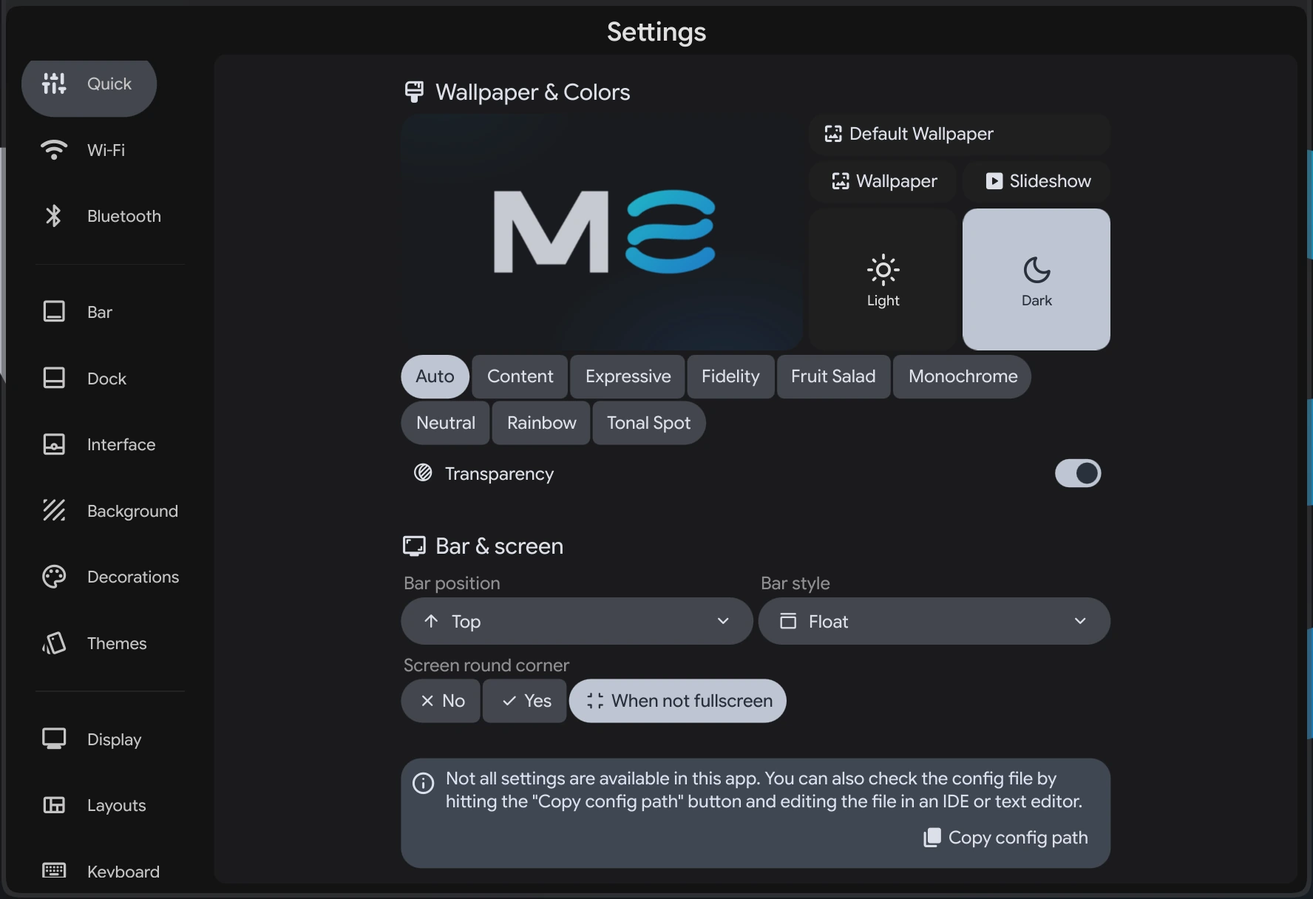
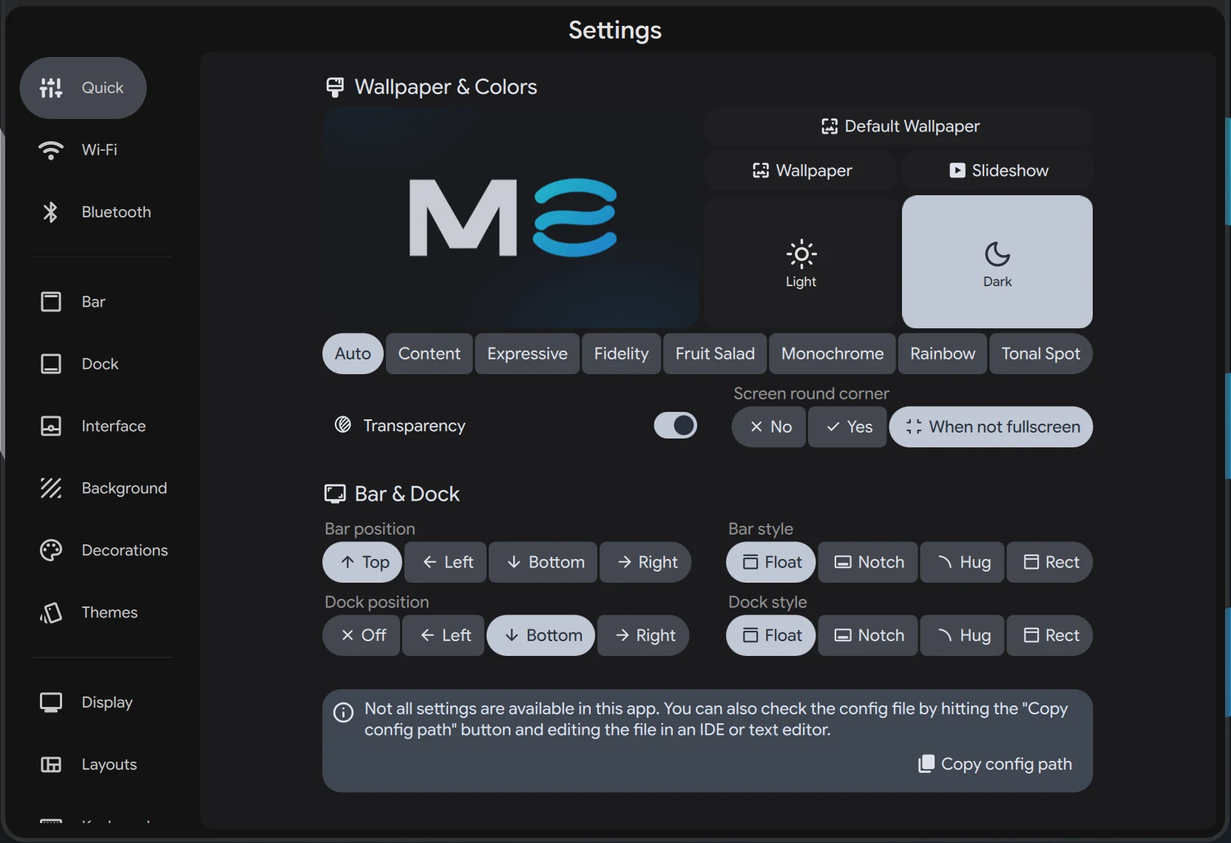
docs: Gaming and Sharing pages, and the rest of 3.0.0 across the docs
The Settings section gains reference pages for Gaming and Sharing, in the order the Settings app lists them, and the Quick page describes its new Bar and Dock rows. The Wi-Fi, Bar, Dock, Interface, Desktop, Decorations, Themes, Mouse, Accounts, Update, Sidebars, Launcher and Security pages cover what 3.0.0 adds or changes there. The Sharing screenshots have the computer name, address and user name blurred.

diff --git a/docs-pages.js b/docs-pages.js
@@ -44,6 +44,7 @@ const I = {
   dpad:    '<path d="M9 4h6v5h5v6h-5v5H9v-5H4V9h5V4Z"/>',
   lock:    '<rect x="4" y="11" width="16" height="9" rx="2"/><path d="M8 11V7a4 4 0 0 1 8 0v4"/>',
   sidebar: '<rect x="3" y="4" width="18" height="16" rx="2"/><path d="M15 4v16"/>',
+  folder:  '<path d="M3 7a2 2 0 0 1 2-2h4l2 2h8a2 2 0 0 1 2 2v8a2 2 0 0 1-2 2H5a2 2 0 0 1-2-2Z"/><circle cx="12" cy="13" r="2"/><path d="M8.5 17.5a3.5 3.5 0 0 1 7 0"/>',
   send:    '<path d="M22 2 11 13"/><path d="M22 2 15 22l-4-9-9-4Z"/>',
   tag:     '<path d="M3 12V4h8l9 9-8 8-9-9Z"/><circle cx="7.5" cy="7.5" r="1.25"/>',
 };
@@ -343,7 +344,7 @@ PAGES['install-iso'] = {
 // ---------- QUICK ----------
 PAGES.quick = {
   group: 'Settings', title: 'Quick', icon: 'quick',
-  lede: 'Quick is the first screen of Settings — the dial-in knobs you\'ll touch most often. Wallpaper, color scheme, bar position, and rounded corners, all in one place.',
+  lede: 'Quick is the first screen of Settings — the dial-in knobs you\'ll touch most often. Wallpaper, color scheme, where the bar and dock sit and how they look, and rounded corners, all in one place.',
   render: () => `
     <p class="shot-note">The whole page at once. Quick is the everyday entry point, and every control on it has a fuller counterpart deeper in Settings when you want to go further than the shortcut.</p>
     ${shot('QuickConfig.webp','Quick settings page')}
@@ -356,17 +357,19 @@ PAGES.quick = {
       <div class="prop"><center><div class="k">Wallpaper</div></center><div class="v">Pick any image or video. <code>Ctrl</code>+<code>SUPER</code> (the ⊞ Windows or ⌘ Command key)+<code>T</code> is the keyboard shortcut.</div></div>
       <div class="prop"><center><div class="k">Slideshow</div></center><div class="v">Point it at a folder instead of one picture and it moves through them on a timer. The palette follows along, so the whole desktop recolors with every change. Choosing a single wallpaper again ends it.</div></div>
       <div class="prop"><center><div class="k">Light / Dark</div></center><div class="v">Hard-switch between Mainstream's warm Day theme and the default Night. Pair with <a href="#interface">Auto theme</a> in Interface settings to follow sunrise/sunset.</div></div>
-      <div class="prop"><center><div class="k">Palette style</div></center><div class="v"><span class="tag">Auto</span> <span class="tag">Content</span> <span class="tag">Expressive</span> <span class="tag">Fidelity</span> <span class="tag">Fruit Salad</span> <span class="tag">Monochrome</span> <span class="tag">Neutral</span> <span class="tag">Rainbow</span> <span class="tag">Tonal Spot</span><br/>Different Material You tonal maps. Expressive pops color the most; Monochrome strips it entirely.</div></div>
+      <div class="prop"><center><div class="k">Palette style</div></center><div class="v"><span class="tag">Auto</span> <span class="tag">Content</span> <span class="tag">Expressive</span> <span class="tag">Fidelity</span> <span class="tag">Fruit Salad</span> <span class="tag">Monochrome</span> <span class="tag">Neutral</span> <span class="tag">Rainbow</span> <span class="tag">Tonal Spot</span><br/>Different Material You tonal maps. Expressive pops color the most; Monochrome strips it entirely. The style Auto would choose for your wallpaper is left out of the row, since picking Auto already gives you that one.</div></div>
       <div class="prop"><center><div class="k">Transparency</div></center><div class="v">Toggles translucent surfaces (sidebars, notifications, dock). Turn off if you\'re on a slower GPU or prefer flat surfaces.</div></div>
+      <div class="prop"><center><div class="k">Screen round corner</div></center><div class="v"><b>No</b> · <b>Yes</b> · <b>When not fullscreen</b><br/>Draws subtle rounded corners at the edges of your monitor. <b>When not fullscreen</b> removes them while a window is fullscreen.</div></div>
     </div>
 
-    <h2>Bar &amp; screen</h2>
-    <p>The quick path to moving the bar around. For every option (workspace indicators, utility buttons, weather, tray, clock format) jump to the full <a href="#bar">Bar</a> page.</p>
+    <h2>Bar &amp; Dock</h2>
+    <p>The quick path to placing and shaping the bar and dock. For every option (workspace indicators, utility buttons, weather, tray, clock format, pinned apps, hover effects) go to the full <a href="#bar">Bar</a> and <a href="#dock">Dock</a> pages.</p>
 
     <div class="props">
       <div class="prop"><center><div class="k">Bar position</div></center><div class="v"><b>Top</b> (default) · <b>Left</b> · <b>Bottom</b> · <b>Right</b></div></div>
-      <div class="prop"><center><div class="k">Bar style</div></center><div class="v"><span class="tag">Hug</span> touches the screen edges.&nbsp; <span class="tag">Float</span> (default) floats with a gap around it.&nbsp; <span class="tag">Rect</span> is a flat rectangle.&nbsp; <span class="tag">Notch</span> sits on the edge with a curve drawn where each end leaves it, so the bar reads as grown out of the screen edge rather than laid on top of it.</div></div>
-      <div class="prop"><center><div class="k">Screen round corner</div></center><div class="v">Draws subtle rounded corners at the edges of your monitor. <b>When not fullscreen</b> disables them automatically while a window is fullscreened.</div></div>
+      <div class="prop"><center><div class="k">Bar style</div></center><div class="v"><span class="tag">Float</span> (default) floats with a gap around it.&nbsp; <span class="tag">Notch</span> sits on the edge with a curve drawn where each end leaves it, so the bar reads as grown out of the screen edge rather than laid on top of it.&nbsp; <span class="tag">Hug</span> touches the screen edges.&nbsp; <span class="tag">Rect</span> is a flat rectangle.</div></div>
+      <div class="prop"><center><div class="k">Dock position</div></center><div class="v"><b>Off</b> · <b>Left</b> · <b>Bottom</b> (default) · <b>Right</b><br/><b>Off</b> hides the dock. The edge the bar is on is left out, since the two cannot share it.</div></div>
+      <div class="prop"><center><div class="k">Dock style</div></center><div class="v"><span class="tag">Float</span> (default) floats above the edge.&nbsp; <span class="tag">Notch</span> sits on the edge, grown out of it like the bar\'s Notch.&nbsp; <span class="tag">Hug</span> runs end to end along its edge.&nbsp; <span class="tag">Rect</span> is a flat rectangle.</div></div>
     </div>
 
   `
@@ -398,6 +401,9 @@ PAGES.wifi = {
 
     <h2>Hidden networks &amp; enterprise Wi-Fi</h2>
     <p>Scroll to the bottom of the list. <strong>Add hidden network</strong> lets you enter the SSID manually. <strong>Enterprise (802.1x)</strong> opens a form with identity, anonymous identity, CA cert, and inner auth — useful for university and corporate networks.</p>
+
+    <h2>Sharing a network</h2>
+    <p>To let a friend's phone or another computer join a network you have saved, click the share button beside <strong>Forget</strong> on that network in Settings. A QR code appears that the other device can scan with its camera, so nobody has to read out or type the password.</p>
   `
 };
 
@@ -452,6 +458,8 @@ PAGES.bar = {
     <p>Drop one widget against another to <strong>group them into a pill</strong> — a single rounded container holding both, which is how the clock and its neighbours are drawn by default. <strong>Group style</strong> switches between pills and plain spacing. <strong>Reset to default layout</strong> puts everything back.</p>
     ${callout('note','Vertical bars leave some widgets out', '<p>A few widgets only make sense across the top. The update indicator, for one, isn\'t offered when the bar is vertical.</p>')}
 
+    <p>Two widgets worth knowing about. <strong>Window title</strong> shows the focused window's title, and doubles as a workspace namer: right-click it to give the workspace you are on a name, which then shows there instead of window titles, and click it to jump between your named workspaces. <strong>Network speed</strong> shows live download and upload speeds; hover it for the connection, signal and IP address, and click it to open the Wi-Fi list. Both are off until you add them to the layout.</p>
+
     <h2>Time &amp; Date</h2>
     <div class="props">
       <div class="prop"><center><div class="k">Time Format</div></center><div class="v"><span class="tag">24h</span> 14:32 &nbsp; <span class="tag">12h am/pm</span> 2:32 pm &nbsp; <span class="tag">12h AM/PM</span> 2:32 PM (default)</div></div>
@@ -500,6 +508,7 @@ PAGES.bar = {
     <h2>Workspaces</h2>
     <div class="props">
       <div class="prop"><center><div class="k">Always show numbers</div></center><div class="v">Off by default — only shows the number for the focused workspace. Turn on if you jump between workspaces by number a lot.</div></div>
+      <div class="prop"><center><div class="k">Roman / Han chars</div></center><div class="v">Number your workspaces in Roman numerals (I, II, III) or Han characters instead of the usual digits.</div></div>
       <div class="prop"><center><div class="k">Show app icons</div></center><div class="v">Draws the icon of whatever app is on each workspace. Quick visual map.</div></div>
       <div class="prop"><center><div class="k">Tint app icons</div></center><div class="v">Tints the icons with your Material You accent for a unified look.</div></div>
       <div class="prop"><center><div class="k">Large circular app icons</div></center><div class="v">Draws each workspace&rsquo;s app icon larger and in a circle rather than small and square. Off by default.</div></div>
@@ -518,6 +527,12 @@ PAGES.bar = {
       <li><b>Performance Profile toggle</b> — cycles Performance / Balanced / Power Saver.</li>
       <li><b>Record</b> — starts a screen recording, with visible recording indicator.</li>
     </ul>
+
+    <h2>Notifications &amp; tooltips</h2>
+    <div class="props">
+      <div class="prop"><center><div class="k">Unread indicator: show count</div></center><div class="v">Shows how many notifications are waiting on the Bar's notification indicator, rather than just that some are.</div></div>
+      <div class="prop"><center><div class="k">Tooltips</div></center><div class="v">Choose whether Bar tooltips appear as the pointer passes over, or wait for a click.</div></div>
+    </div>
 
     <h2>Weather</h2>
     <p>Powered by Open-Meteo. When <strong>Enable GPS based location</strong> is on, Mainstream uses GeoClue and the <em>City name</em> field greys out, since your position is coming from the machine rather than from what you typed. Turn it off to name a city yourself. <strong>Polling interval</strong> is how often (in minutes) the widget refreshes.</p>
@@ -547,9 +562,9 @@ PAGES.dock = {
     <h2>Behavior</h2>
     <div class="props">
       <div class="prop"><center><div class="k">Position</div></center><div class="v">Which edge the dock sits on: <span class="tag">Bottom</span> the default &nbsp; <span class="tag">Top</span> &nbsp; <span class="tag">Left</span> &nbsp; <span class="tag">Right</span> &nbsp; <span class="tag">Disabled</span> turns the dock off. On the left or right it stands vertically, icons stacked. Pick the edge your bar is already using and the bar moves to the opposite one, so the two never share a side.</div></div>
-      <div class="prop"><center><div class="k">Window indicators</div></center><div class="v">The mark under an icon that says the app is running, and how many windows it has. <span class="tag">Dashes</span> the default &nbsp; <span class="tag">Dots</span> &nbsp; <span class="tag">Count badge</span> a number instead of marks, which stays readable past three or four windows &nbsp; <span class="tag">None</span></div></div>
+      <div class="prop"><center><div class="k">Window indicators</div></center><div class="v">The mark under an icon that says the app is running, and how many windows it has. <span class="tag">Dashes</span> the default &nbsp; <span class="tag">Dots</span> &nbsp; <span class="tag">Count badge</span> a number instead of marks, which stays readable past three or four windows &nbsp; <span class="tag">None</span> &nbsp; <span class="tag">Dashes and badges</span> <span class="tag">Dots and badges</span> the marks and the count together</div></div>
       <div class="prop"><center><div class="k">Launch animation</div></center><div class="v">The icon reacts when you start an app, so you can see the click landed before the window appears. <span class="tag">Bounce</span> the default &nbsp; <span class="tag">Pulse</span> &nbsp; <span class="tag">Pop</span> &nbsp; <span class="tag">Wobble</span> &nbsp; <span class="tag">None</span> Only a genuine launch animates: clicking an app that is already open, or opening a folder, does not.</div></div>
-      <div class="prop"><center><div class="k">Hover animation</div></center><div class="v">What an icon does as the pointer passes over it. <span class="tag">Magnify</span> the icon grows, in the manner of a classic dock &nbsp; <span class="tag">Glow</span> a lit halo instead of a size change &nbsp; <span class="tag">None</span></div></div>
+      <div class="prop"><center><div class="k">Hover animation</div></center><div class="v">What an icon does as the pointer passes over it. <span class="tag">Magnify</span> the icon grows, in the manner of a classic dock &nbsp; <span class="tag">Glow</span> a lit halo instead of a size change &nbsp; <span class="tag">None</span> New installs start on Glow, and Magnify starts at a gentler strength when you pick it.</div></div>
       <div class="prop"><center><div class="k">Magnify amount</div></center><div class="v">How far the hovered icon grows. The mark on the track is the stock setting, so you can always find your way back to it.</div></div>
       <div class="prop"><center><div class="k">Glow intensity</div></center><div class="v">How strong the halo is. Appears in place of the magnify slider when Glow is the chosen hover animation.</div></div>
       <div class="prop"><center><div class="k">Hover to reveal</div></center><div class="v">The dock stays hidden while a window is focused and slides in when your cursor touches the edge it sits on. Off: it only appears on an empty workspace, not on hover.</div></div>
@@ -568,7 +583,7 @@ PAGES.dock = {
 
     <h2>Shape</h2>
     <div class="props">
-      <div class="prop"><center><div class="k">Corner style</div></center><div class="v"><span class="tag">Float</span> the dock floats clear of the edge with a margin around it, the default &nbsp; <span class="tag">Rect</span> a plain rectangle with no rounding &nbsp; <span class="tag">Notch</span> sits against the edge and curves away from it, so the screen edge appears to fold around the dock.</div></div>
+      <div class="prop"><center><div class="k">Corner style</div></center><div class="v"><span class="tag">Float</span> the dock floats clear of the edge with a margin around it, the default &nbsp; <span class="tag">Rect</span> a plain rectangle with no rounding &nbsp; <span class="tag">Notch</span> sits against the edge and curves away from it, so the screen edge appears to fold around the dock. &nbsp; <span class="tag">Hug</span> runs the whole length of the edge facing the Bar, like a taskbar, with smaller icons to match. Each style remembers its own roundness, so shaping one leaves the others as they were.</div></div>
       <div class="prop"><center><div class="k">Icon size</div></center><div class="v">How large the app icons are, and with them the dock itself.</div></div>
       <div class="prop"><center><div class="k">Corner roundness</div></center><div class="v">How rounded the dock\'s own corners are, from square to fully pill-shaped.</div></div>
     </div>
@@ -608,6 +623,7 @@ PAGES.interface = {
       <div class="prop"><center><div class="k">Layout</div></center><div class="v">Lay the workspace previews out <b>Vertical</b> or <b>Horizontal</b>.</div></div>
       <div class="prop"><center><div class="k">Workspace gap</div></center><div class="v">Pixels between workspace previews. Default 100.</div></div>
       <div class="prop"><center><div class="k">Workspace scale</div></center><div class="v">How much each preview shrinks — lower fits more workspaces on screen. Default 50%.</div></div>
+      <div class="prop"><center><div class="k">Each monitor / Match the others</div></center><div class="v">With more than one monitor, give one its own Scrolling Overview layout, workspace gap and scale, or set it to match the others again.</div></div>
     </div>
 
     <h2>Launcher Overview</h2>
@@ -649,6 +665,12 @@ PAGES.interface = {
       <div class="prop"><center><div class="k">Also unlock keyring</div></center><div class="v">Unlocking the screen also unlocks GNOME Keyring — no second password for Wi-Fi, Git creds, etc.</div></div>
       <div class="prop"><center><div class="k">Use varying shapes for password characters</div></center><div class="v">Each password dot becomes a different subtle shape. Purely cosmetic.</div></div>
       <div class="prop"><center><div class="k">Enable blur (Blurred style)</div></center><div class="v">Kawase blur behind the unlock prompt.</div></div>
+    </div>
+
+    <h2>Notifications</h2>
+    <div class="props">
+      <div class="prop"><center><div class="k">Position</div></center><div class="v">Where notification popups appear: any corner of the screen, or centered at the top or bottom.</div></div>
+      <div class="prop"><center><div class="k">How long they stay</div></center><div class="v">How long a popup stays on screen before it tucks itself away into the notification list.</div></div>
     </div>
 
     <h2>On-screen display</h2>
@@ -793,7 +815,7 @@ PAGES.decorations = {
       <div class="prop"><center><div class="k">Blur</div></center><div class="v">Background blur behind transparent windows and panels. The most expensive thing on this page to draw.</div></div>
       <div class="prop"><center><div class="k">Shadows</div></center><div class="v">Drop shadows underneath windows.</div></div>
       <div class="prop"><center><div class="k">Borders</div></center><div class="v">Colored borders around active and inactive windows — useful for telling floating windows apart.</div></div>
-      <div class="prop"><center><div class="k">Rounded Corners</div></center><div class="v">Rounded corners on windows and the bar, following your theme radius.</div></div>
+      <div class="prop"><center><div class="k">Rounded Corners</div></center><div class="v">Rounded corners on windows and the bar, following your theme radius. Turning it off squares the screen corners and the Hug dock too, and turning it back on restores them all as they were.</div></div>
       <div class="prop"><center><div class="k">Title Bars</div></center><div class="v">Show title bars on windows, so every window keeps its close and maximize buttons. Turning this on reveals a <b>Title bars</b> section below, for coloring them.</div></div>
     </div>
     ${callout('note','A switch turns the section off', '<p>Each switch gates the matching section further down. With <strong>Blur</strong> off, the blur sliders stop having an effect — they keep their values for when you turn it back on.</p>')}
@@ -803,6 +825,11 @@ PAGES.decorations = {
     <div class="props">
       <div class="prop"><center><div class="k">Color</div></center><div class="v">Paints the title bar. Left empty, the title bar keeps the color it comes with, which is the one the plugin picks for itself. Applies as you edit.</div></div>
       <div class="prop"><center><div class="k">Opacity</div></center><div class="v">How see-through the title bar is. It takes effect once a color is set: the opacity is folded into the color the plugin is handed, so on its own, with no color, there is nothing to make transparent.</div></div>
+      <div class="prop"><center><div class="k">Dark and light</div></center><div class="v">Dark mode and light mode each keep their own title bar color and opacity, and light mode starts with a light title bar.</div></div>
+      <div class="prop"><center><div class="k">Window buttons</div></center><div class="v">The close, maximize and minimize buttons. Switching them off also hides their options; double-click, middle-click and scrolling on the title bar keep working.</div></div>
+      <div class="prop"><center><div class="k">Show buttons only on hover</div></center><div class="v">The buttons appear when the pointer is over the title bar.</div></div>
+      <div class="prop"><center><div class="k">Button size, background, icon color, highlight</div></center><div class="v">Resize the buttons and give them their own background, icon color and the circle that lights up behind one under the pointer. Left empty, a color follows the look they come with.</div></div>
+      <div class="prop"><center><div class="k">Scroll to maximize and minimize</div></center><div class="v">Scroll up on a title bar to maximize its window, and down to restore it, then minimize it. Double-click maximizes or restores, and middle-click closes, whatever this is set to.</div></div>
     </div>
 
     <h2>Window shape</h2>
@@ -925,7 +952,7 @@ PAGES.themes = {
     <div class="props">
       <div class="prop"><center><div class="k">Wallpaper</div></center><div class="v">The image file itself is copied into the theme, so the theme keeps working even if you later move or delete the original.</div></div>
       <div class="prop"><center><div class="k">Colors</div></center><div class="v">Your <strong>Material You palette style</strong> (Expressive, Monochrome, …) and <strong>Light/Dark</strong> choice. On apply, the palette is regenerated from the theme\'s wallpaper — and it reaches further than the desktop: your apps follow the light/dark switch and the terminal recolors too.</div></div>
-      <div class="prop"><center><div class="k">Every Settings option</div></center><div class="v">The desktop configuration as it stood when you saved: <strong>bar</strong> position, style, and modules; the <strong>dock</strong>&rsquo;s size, marks and end buttons; <strong>background widgets</strong> (clock, weather, quote); <strong>fonts</strong> and sizes; <strong>transparency</strong>; interface and launcher tweaks.</div></div>
+      <div class="prop"><center><div class="k">Every Settings option</div></center><div class="v">Every Settings option that shapes the look. Your own settings stay yours: language, search engine, AI settings, lock screen security, battery settings, pinned apps, time format, touchpad gestures and save folders are never saved into a theme, and never change when you apply or import one.</div></div>
       <div class="prop"><center><div class="k">Window decorations</div></center><div class="v">Animations, blur, shadows, borders and gaps, rounded corners, and title bars — applied live, so windows re-dress the moment you switch.</div></div>
       <div class="prop"><center><div class="k">System look</div></center><div class="v">Your app style, icon set, and mouse pointer, so your other programs change with the desktop instead of staying behind. Set these on the <a href="#decorations">Decorations</a> page.</div></div>
       <div class="prop"><center><div class="k">Preview</div></center><div class="v">A screenshot taken at save time becomes the theme\'s thumbnail in the grid.</div></div>
@@ -953,6 +980,8 @@ PAGES.themes = {
       </div>
       <figcaption>Switching live: one click and the wallpaper, colors, bar, dock, and widgets all follow in a single motion.</figcaption>
     </figure>
+
+    <p><code>Ctrl</code>+<code>SUPER</code>+<code>N</code> moves to your next saved theme from anywhere on the desktop.</p>
 
     <h2>Day/Night Themes</h2>
     ${shot('ThemesConfig-DayNight.webp','Day/Night Themes section of the Themes page','Pair two saved themes to time of day — a bright one for daytime, a dark one for night — and Mainstream switches between them on its own.')}
@@ -1146,6 +1175,8 @@ PAGES.mouse = {
     <h2>Touchpad</h2>
     <div class="props">
       <div class="prop"><center><div class="k">Touchpad</div></center><div class="v">Turns the touchpad itself on or off. <b>Enabled</b> by default. The row only appears when a touchpad is actually detected, so a desktop never sees it. The change applies at once and is written to your Hyprland config, so it survives a restart.</div></div>
+      <div class="prop"><center><div class="k">Disable While Typing</div></center><div class="v">Ignores the touchpad for a moment after each key press, so a resting palm cannot move the pointer.</div></div>
+      <div class="prop"><center><div class="k">Disable While Using an External Mouse</div></center><div class="v">Turns the touchpad off once a USB or Bluetooth mouse is used, and back on when the mouse is disconnected.</div></div>
     </div>
 
     <p><strong>Scroll Direction</strong> works exactly like the mouse setting but is stored separately — touchpads default to <strong>Natural</strong> scrolling (the phone and tablet feel) while mice default to <strong>Traditional</strong>, and you can override either.</p>
@@ -1221,6 +1252,33 @@ PAGES.power = {
   `
 };
 
+// ---------- GAMING (SETTINGS) ----------
+PAGES['gaming-settings'] = {
+  group: 'Settings', title: 'Gaming', icon: 'game',
+  lede: 'Three switches for smoother play. One keeps games smooth while something heavy runs in the background, and two kernel options can help particular games stutter less or load faster.',
+  render: () => `
+    ${shot('GamingConfig.webp','Gaming settings page')}
+
+    <p>Everything on this page is off by default, and anything you turn on can be turned back off from here. The switches need the gaming stack, which the Welcome app installs, and the page tells you when it is missing. For what each switch changes under the hood, what it costs, and the popular tweaks Mainstream leaves out on purpose, see <a href="#gaming-performance">Gaming Performance</a>.</p>
+
+    <h2>Responsiveness</h2>
+    <div class="props">
+      <div class="prop"><center><div class="k">Keep games smooth under load</div></center><div class="v">Switches to a scheduler that favors responsiveness over raw throughput, so a game stays smooth while something heavy runs behind it, like a compile, a video export or a big download being unpacked. Those long jobs finish a little slower in exchange. Takes effect right away, with no restart. If your kernel cannot run it, the switch says so and the standard scheduler stays in charge.</div></div>
+    </div>
+
+    <h2>Kernel options</h2>
+    <p>Neither of these helps every game. They are for the one game that is still stuttering or loading slowly after everything else.</p>
+    <div class="props">
+      <div class="prop"><center><div class="k">Skip split lock detection</div></center><div class="v">Removes a stutter some older games show on Intel processors. It also removes a protection that stops one program from stalling the whole machine, so leave it off unless a game needs it.</div></div>
+      <div class="prop"><center><div class="k">Always use huge memory pages</div></center><div class="v">Some games load faster and run smoother with it. Others gain nothing and use more memory. Off, the default, hands huge pages out only where a program asks for them.</div></div>
+    </div>
+    <p>Both are boot options, so changing one rebuilds the boot image and applies after a restart. They are available when Mainstream manages the boot menu, which is the case on every install from the Mainstream ISO.</p>
+
+    ${callout('tip','Test one at a time','<p>Turn one option on, restart, and play the game that was giving you trouble. If nothing changed, turn it back off. Leaving an option on that did not help only keeps its cost.</p>')}
+    ${callout('note','Asks for your password','<p>Each change here asks for an administrator password, because it changes how the whole system runs. If the boot image cannot be rebuilt, the change is undone rather than left half applied.</p>')}
+  `
+};
+
 // ---------- ACCOUNTS ----------
 PAGES.accounts = {
   group: 'Settings', title: 'Accounts', icon: 'user',
@@ -1237,17 +1295,19 @@ PAGES.accounts = {
       <div class="prop"><center><div class="k">Change Password</div></center><div class="v">Sets a new login password. Requires your <em>current</em> password for confirmation.</div></div>
       <div class="prop"><center><div class="k">Change Login Name</div></center><div class="v">Renames the user on disk. The home directory is moved, so the system briefly locks out open sessions for that user.</div></div>
       <div class="prop"><center><div class="k">Change Login Image</div></center><div class="v">The picture shown on the greeter. Square images 256 px and up work well.</div></div>
+      <div class="prop"><center><div class="k">Repair Account</div></center><div class="v">For an account that is missing its setup. Fills in what is missing and leaves the person's own choices, like their default apps and shell, as they are.</div></div>
+      <div class="prop"><center><div class="k">Administrator</div></center><div class="v">Choose who can administer the computer: install software, change system settings and manage accounts. The last administrator cannot be made standard.</div></div>
       <div class="prop"><center><div class="k">Remove Account</div></center><div class="v">Deletes the user. You\'re asked separately whether to keep or delete the home directory.</div></div>
     </div>
 
     <h2>Add an Account</h2>
     <ol>
-      <li>Enter a <strong>Login name</strong> — lowercase, no spaces.</li>
+      <li>Enter a <strong>Login name</strong> (lowercase, no spaces) and, if you like, a full name.</li>
       <li>Set a password.</li>
-      <li>Choose whether to <strong>set up a personal folder</strong> (<code>/home/&lt;name&gt;</code>) for the new account.</li>
-      <li>Optionally <strong>copy your app settings</strong> so the new account starts with your <code>~/.config</code> as a base.</li>
+      <li>Turn on <strong>Let this person administer the computer</strong> only for someone who should manage it with you.</li>
       <li>Hit <strong>Create Account</strong>.</li>
     </ol>
+    <p>A new account gets the same desktop a fresh install gives you, and finishes setting itself up the first time that person signs in.</p>
 
     ${callout('tip','Protected by a password prompt', '<p>Creating, renaming, or deleting an account — or changing a password — asks for an administrator\'s password before it happens. Anyone can browse the list; only an admin can change it.</p>')}
   `
@@ -1298,6 +1358,44 @@ PAGES.services = {
       <div class="prop"><center><div class="k">City name</div></center><div class="v">The place to show weather for when GPS based location is off.</div></div>
       <div class="prop"><center><div class="k">Polling interval (m)</div></center><div class="v">How often the forecast refreshes, in minutes.</div></div>
     </div>
+  `
+};
+
+// ---------- SHARING (SETTINGS) ----------
+PAGES['sharing-settings'] = {
+  group: 'Settings', title: 'Sharing', icon: 'folder',
+  lede: 'Share folders with Windows, Mac and Linux computers on your home network. Turn it on once, pick the folders, and other computers sign in with a sharing password this page shows you.',
+  render: () => `
+    ${shot('SharingConfig-1.webp','Sharing settings page, top half','Turn sharing on, then use the addresses and sign-in details under How to Connect on the other computer.')}
+
+    <h2>Turning it on</h2>
+    <p>Flip <strong>Share folders with other computers</strong>. The first time, Mainstream downloads the sharing service (about 9 MB) and asks for your password once. Sharing then opens on the network you are connected to right now, and on no other.</p>
+    <p>The switch is for the whole computer. Each person who wants to share their own folders sets up their account once from this page, which gives them a sharing password of their own.</p>
+
+    <h2>How to Connect</h2>
+    <p>On the other computer, type one of the addresses this page shows, then sign in with the user name and password below them.</p>
+    <div class="props">
+      <div class="prop"><center><div class="k">For Windows</div></center><div class="v">Type it into the File Explorer address bar.</div></div>
+      <div class="prop"><center><div class="k">For Mac and Linux</div></center><div class="v">On a Mac, in Finder under <strong>Go</strong> &gt; <strong>Connect to Server</strong>. On Linux, in the file manager after pressing <code>Ctrl</code> + <code>L</code>.</div></div>
+      <div class="prop"><center><div class="k">By number</div></center><div class="v">The same addresses using this computer\'s network number. Use these if the name does not work. The number can change when your router restarts.</div></div>
+      <div class="prop"><center><div class="k">User name and Password</div></center><div class="v">What the other computer asks for. The sharing password is not your login password. <strong>Show</strong> reveals it, and <strong>Change</strong> sets a new one (8 to 128 characters) or lets <strong>Suggest One</strong> pick it for you. Computers that saved the old password will ask again.</div></div>
+    </div>
+    <p>This computer also shows up on its own under Network in File Explorer on Windows, in the Finder sidebar on a Mac, and under Network in Files on Linux.</p>
+
+    ${shot('SharingConfig-2.webp','Sharing settings page, bottom half','Pick the folders and what others can do with them, choose the networks to share on, and give the computer a name that is easy to type.')}
+
+    <h2>Shared Folders</h2>
+    <p><strong>Add a Folder</strong> shares any folder that belongs to you, and <strong>Share Your Public Folder</strong> is a one-click start. Each folder can be <span class="tag">View only</span> or <span class="tag">Can make changes</span>. The <strong>&times;</strong> stops sharing it; the folder and its files stay where they are.</p>
+    <p>You can also share from Files: right-click a folder and choose <strong>Share on Network</strong>. To send a single file to a phone or tablet instead, see <a href="#sharing">Sending files</a>.</p>
+
+    <h2>Networks</h2>
+    <p>Your folders are only shared on the networks turned on here. Anywhere else, like a coffee shop or a hotel, they stay closed. A cable connection uses one setting wherever you plug in, so on a laptop that leaves the house, leave it off and share over your home Wi-Fi instead.</p>
+
+    <h2>Computer Name</h2>
+    <p>The name other computers find this one by. A short one is easier to type. Use lowercase letters, numbers and dashes, up to 63 characters. Computers that saved the old name will need the new address.</p>
+
+    ${callout('note','Your sharing password stays in your keyring','<p>The password is kept in your keyring rather than in a file. If the keyring is locked, the page asks you to unlock it before it can show the password.</p>')}
+    ${callout('warn','Keep the firewall on','<p>The firewall is what keeps your folders closed on networks you have not turned on. If it is switched off while sharing runs, the page warns you, because your folders could then be reached from any network this computer is on.</p>')}
   `
 };
 
@@ -1368,6 +1466,10 @@ PAGES.update = {
 
 <span class="c"># Or just the desktop refresh, skipping the package steps</span>
 updatems --edge</code></pre>
+
+    <h2>Leave it running</h2>
+    <p>An update keeps going if you close Settings, and the result is waiting when you open the Update page again. Before you start, the page tells you whether the update will need a restart, and when it does, it ends with a <strong>Reboot Now</strong> button. Turn on <strong>Sound when done</strong> in the advanced options to hear a chime when it finishes, or a warning sound if something went wrong.</p>
+    <p>Updates keep what you changed: the Decorations settings you adjusted, the layouts picked on the Layouts page, the touchpad gestures on the Mouse page, and your own edits to settings files a release did not touch. Settings you never changed still take each release's new defaults.</p>
 
     <h2>If something breaks</h2>
     <p>Don\'t panic. You have a snapshot. Head over to <a href="#recovery">Recovery</a> to walk through rolling back from the Limine boot screen.</p>
@@ -1582,6 +1684,15 @@ PAGES.security = {
     <p>Mainstream never builds software recipes on your machine and never installs from an unvetted source. Everything comes from four signed repositories: Arch\'s own <code>core</code>, <code>extra</code>, and <code>multilib</code>, plus <strong>[mainstream]</strong> — our own curated, prebuilt repository that stands in for the AUR. No <code>yay</code>, no <code>paru</code>, no compiling at install time.</p>
 
     ${callout('note','Still full Arch underneath', '<p>Nothing here is locked down. Experienced users can opt into the AUR at any time (see the bottom of this page) — it just isn\'t the default, because the AUR\'s safety model asks more of you than a newcomer can reasonably give.</p>')}
+
+    <h2>Older installs get the same protections</h2>
+    <p>Security fixes are not only for new installs. Updating also cleans up what older installs carried from the installer:</p>
+    <ul>
+      <li><strong>Encrypted disks:</strong> the boot files, which are not encrypted, no longer hold an unused key to your disk. New installs never add it, and updating removes it wherever that is safe.</li>
+      <li><strong>SSH:</strong> installs from before July no longer let root sign in over SSH with a password if SSH is ever turned on.</li>
+      <li><strong>sudo:</strong> older installs lose the installer's rule that let administrators use sudo without a password, as long as a normal rule that asks for one is in place.</li>
+      <li><strong>Accounts:</strong> an administrator's password typed into a standard account's session is asked for again every time, rather than staying good there for a few minutes.</li>
+    </ul>
 
     <h2>Why the AUR isn\'t enabled by default</h2>
     <p>The AUR is one of the best things about Arch. It carries tens of thousands of packages, keeps pace with upstream faster than almost anywhere else, and every recipe is a plain-text <code>PKGBUILD</code> you can read end to end. We use it — to <em>build</em> things, once, on our side. What we don\'t do is point your machine at it.</p>
@@ -2003,6 +2114,8 @@ PAGES.desktop = {
     <p>Right click any empty part of the desktop and a menu opens on the wallpaper. It leads with the wallpaper itself, so changing your background is one click from where you already are, and carries on into the theme, the bar and the dock without opening Settings first.</p>
     <p>The widgets that sit on the wallpaper, the clock and the ten beside it, are set up in <a href="#background">Settings &rarr; Background</a>.</p>
 
+    <p>With more than one monitor, each can have its own wallpaper: right-click the desktop on the screen you want to change and choose <strong>Change Wallpaper</strong> to set that screen alone. Colors still come from the main wallpaper, and <strong>Use Main Wallpaper</strong> puts the screen back to it.</p>
+
     <h2>Title bars, your call</h2>
     <p>Tiling purists keep windows clean; everyone else can flip on familiar title bars with a close button. It\'s one toggle in <strong>Settings → Interface → Decorations</strong>, and it applies to every window instantly — no logout, no reload.</p>
     <figure>
@@ -2143,6 +2256,8 @@ PAGES['overview-launcher'] = {
       <figcaption>Open single apps or whole folders of apps at once, and rearrange your open apps across your workspaces.</figcaption>
     </figure>
 
+    <p>The launcher matches your Dock: the search panel, the dim behind it and the app list take the Dock's color and transparency, and the app list also takes its roundness. With the overview switched off, the launcher opens on your full app list with search still on top; a switch in Interface settings brings back the short list if you prefer it.</p>
+
     <h2>The scrolling overview</h2>
     <p>Sweep the cursor into the hot corner (top left) or press <code>SUPER</code> + <code>O</code> and the desktop zooms out into a map of your workspaces. Scroll across the workspace, drag windows between them, and click anywhere to dive back in. Combine it with the Scrolling layout in <strong><a href="#layouts">Settings → Layouts</a></strong> and you get the full niri-like experience.</p>
     <figure>
@@ -2195,6 +2310,12 @@ PAGES.sidebars = {
     <h2>Left: Intelligence</h2>
     <p>A chat panel for large language models — bring an API key for online models or run local ones, with a translator one tab away. <strong>Ctrl + O</strong> expands it, <strong>Ctrl + P</strong> pins it open, and it stays entirely out of the way until asked.</p>
 
+    <p>Gemini joins Claude and Codex as a plan: sign in once with your Google account, free or with Google AI Pro or Ultra, and chat through Google's Antigravity without an API key. The Bar's sidebar button shows the logo of the model you picked, and stays off the Bar while AI is off.</p>
+    <p>Pinning the left sidebar keeps it open while you use the desktop: clicking a window no longer closes it, and your windows move aside while the Bar and Dock stay where they are.</p>
+
+    <h2>Left: Media</h2>
+    <p>Album art, playback controls and synced lyrics for whatever is playing, colored from the album. Lyrics come from LRCLIB, and are only looked up while the tab is on screen.</p>
+
     <h2>Right: your system and your day</h2>
     <p>The right sidebar starts with one-tap toggles — network, Bluetooth, microphone, audio output, Night Light — and system shortcuts for editing, reloading, settings, and power.</p>
     ${shot('Right-Sidebar-Toggles.webp','Quick toggles row in the right sidebar')}
@@ -2228,6 +2349,8 @@ PAGES.sharing = {
       </div>
       <figcaption>Right-click to receive: the panel shows the incoming file land in Downloads.</figcaption>
     </figure>
+
+    <p>To share whole folders with other computers instead, so they can open them like a network drive, see <a href="#sharing-settings">Sharing</a> in Settings.</p>
 
     ${callout('note','Private by design','<p>Sharing is off until you start it, and only devices on your own network can ever see yours. There\'s no account to create, no server in the middle, and no size limit beyond your disk.</p>')}
   `

diff --git a/docs-app.js b/docs-app.js
@@ -4,7 +4,7 @@ const NAV_ORDER = [
   { group: 'Start here', ids: ['home'] },
   { group: 'Installation', ids: ['install-iso', 'install-script'], collapsible: true, icon: 'rocket' },
   { group: 'Desktop', ids: ['desktop','overview-launcher','shortcuts','sidebars','sharing','desktop-apps'] },
-  { group: 'Settings', ids: ['quick','wifi','bluetooth','bar','dock','interface','background','decorations','themes','display','layouts','keyboard','mouse','power','accounts','services','manage','update','recovery','about'] },
+  { group: 'Settings', ids: ['quick','wifi','bluetooth','bar','dock','interface','background','decorations','themes','display','layouts','keyboard','mouse','power','gaming-settings','accounts','services','sharing-settings','manage','update','recovery','about'] },
   { group: 'Creative', ids: ['davinci','obs'], collapsible: true, icon: 'film', heading: 'Topics' },
   { group: 'Gaming', ids: ['gaming','steam-proton','gaming-performance'], collapsible: true, icon: 'game' },
   { group: 'Remote Access', ids: ['remote-access'], bare: true },
